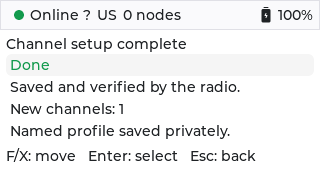
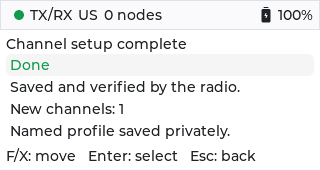
Use the actual radio mode value in synthetic completion screenshot

Changed region(s): [[0.0938, 0.0294, 0.5625, 0.1176]]

diff --git a/tests/channel_setup.cpp b/tests/channel_setup.cpp
@@ -210,7 +210,7 @@ static void run(const std::string &dir, bool dark) {
         vm, commit,
         R"("event":"channel.setup.saved","added":1,"verified":"radio","channels":[{"index":1,"identity":"new-group"}],"profile":"synthetic-profile")");
     CHECK(labels(s.root()).find("verified by the radio") != std::string::npos);
-    vm.apply_health("tx-rx", "");
+    vm.apply_health("transmit", "");
     screenshot(s.root(), dir, dark ? "channel-setup-complete-dark.png" : "channel-setup-complete.png");
     vm.set_channels({{1, "Field", false, "SECONDARY", 15, "new-group"}});
     choose(s, "Open conversation");
